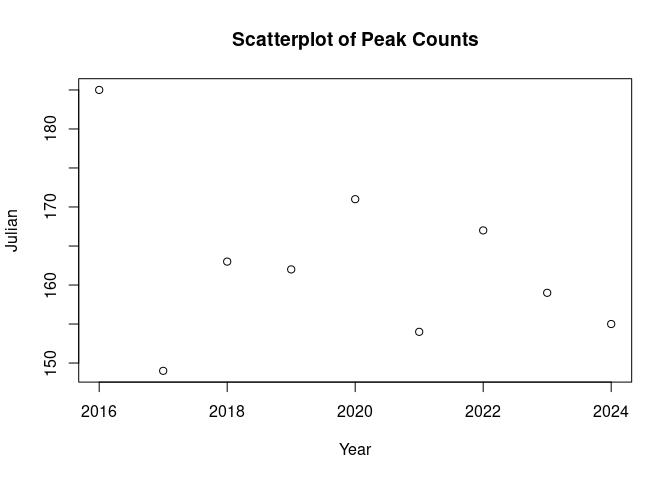
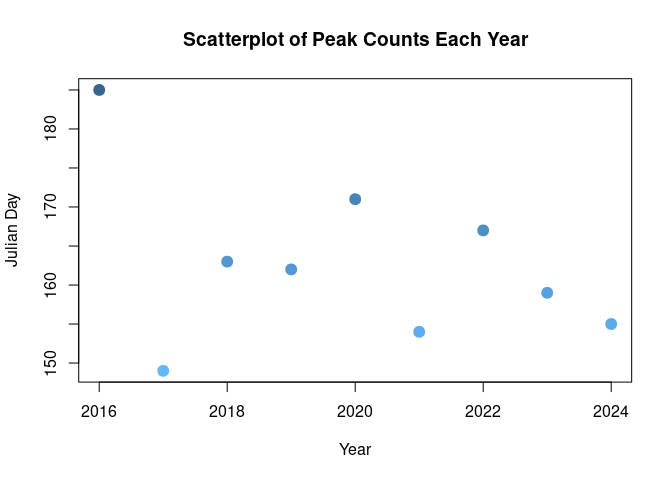
Homework 12

diff --git a/FinalMarkdown.md b/FinalMarkdown.md
@@ -1,7 +1,7 @@
-Final Markdown Report
+Final Markdown Report - Fireflies
 ================
 Luke Hatch
-2025-11-11
+2025-11-13
 
 - [ABSTRACT](#abstract)
 - [BACKGROUND](#background)
@@ -22,6 +22,20 @@ Luke Hatch
 
 # BACKGROUND
 
+Fireflies are among the most mesmerizing insects in the world due to
+their unique glow in the night sky. Most people would run to avoid
+insects, but for these they stop and watch. In some cases, they even
+record what they saw, providing firefly citizen scientist data that
+supports further research on their behavior. Before they’re in the sky,
+however, they spend the majority of their lives underground developing.
+Duration of their lives underground is influenced by a variety of
+factors (Evans et al., 2019, p. 266). Depending primarily on climate and
+soil conditions, the stages of the firefly life cycles can be altered -
+taking or adding time (Evans et al., 2019, p. 266). Because these
+conditions change each year, the timing and abundance of emerged
+fireflies can also fluctuate. This report uses citizen science data
+collected in Utah to examine firefly abundance over the past 8 years.
+
 ## Question
 
 How has firefly abundance changed monthly over the last 8 years
@@ -29,10 +43,16 @@ How has firefly abundance changed monthly over the last 8 years
 
 ## Hypothesis
 
-Due to temperature changes (e.g. global warming), we’d expect to see an
-increase in abundance sooner in the year as each year passes.
+Due to temperature changes (e.g. global warming), fireflies are expected
+to emerge sooner in the year as each year passes, as warmer temperatures
+can accelerate their development and affect the timing of emergence
+(Evans et al., 2019, p. 266).
 
 ## Prediction
+
+If temperature increases have influenced firefly emergence, then peak
+abundance would be observed earlier in years where the temperature is
+higher earlier in that year (such as emerging in June vs. July).
 
 # METHODS
 
@@ -59,12 +79,20 @@ ggplot(data, aes(x= Month))+
 #make plot of Max Julian day
 table_Julian <- table(data$Year, data$Julian)
 #find the max count each year
-max_col <- apply(table_Julian, 1, which.max) 
+max_col <- apply(table_Julian, 1, which.max)
 # create a data frame with year and max julian day
 Julian <- as.numeric(colnames(table_Julian)[max_col])
 Year <- c(2016, 2017, 2018, 2019, 2020, 2021, 2022, 2023, 2024)
+# Create a color gradient
+color_gradient <- colorRampPalette(c("steelblue1", "steelblue4"))
+# Generate a vector of colors based on Julian values
+cols <- color_gradient(100)[as.numeric(cut(Julian, breaks = 100))]
 #plot as scatter plot
-plot(Year, Julian, main = "Scatterplot of Peak Counts")
+plot(Year, Julian, main = "Scatterplot of Peak Counts Each Year",
+     col = cols,
+     pch = 19,       # filled circles
+     cex = 1.5,
+     ylab = "Julian Day")      # point size
 ```
 
 ![](FinalMarkdown_files/figure-gfm/second-1.png)<!-- -->
@@ -154,5 +182,5 @@ the spread - and therefore amplification - of WNV in SLC.
     1999 strain of West Nile virus. Emerging Infectious Diseases, 9(3),
     311–322. <https://doi.org/10.3201/eid0903.020628>
 
-2.  ChatGPT. OpenAI, version Jan 2025. Used as a reference for functions
-    such as plot() and to correct syntax errors. Accessed 2025-11-11.
+2.  ChatGPT. OpenAI, version Nov 2025. Used as a reference for functions
+    such as plot() and to correct syntax errors. Accessed 2025-11-13.
